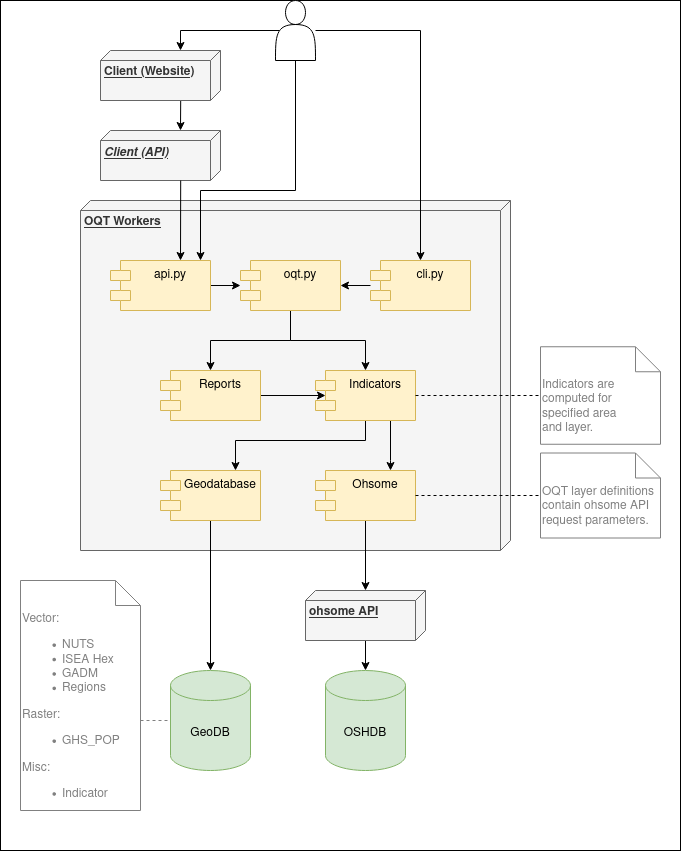
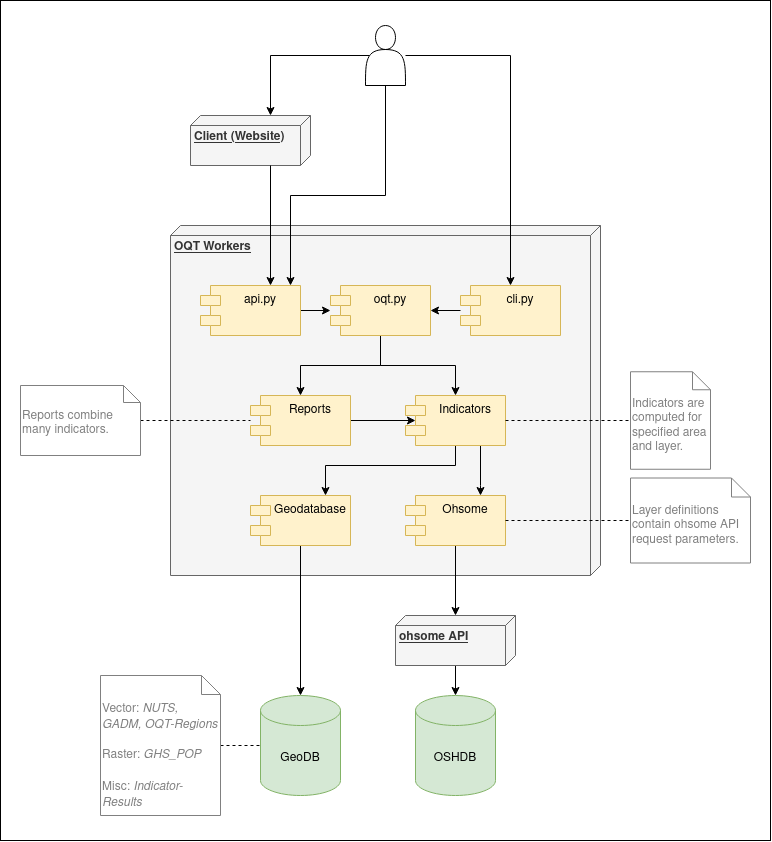
Update UML Component Diagram

diff --git a/CHANGELOG.md b/CHANGELOG.md
@@ -28,6 +28,7 @@
 - Minor improvements to the metadata and docstrings of indicators ([#110])
 - Change return type from bool to None for indicator for functions: preprocess, calculate, create_figure ([#96])
 - Implement mapping of custom feature id to default (unique) feature id ([#83])
+- Update UML Component Diagram ([#136])
 
 [#62]: https://github.com/GIScience/ohsome-quality-analyst/issues/62
 [#83]: https://github.com/GIScience/ohsome-quality-analyst/pull/83
@@ -40,6 +41,7 @@
 [#122]: https://github.com/GIScience/ohsome-quality-analyst/pull/122
 [#123]: https://github.com/GIScience/ohsome-quality-analyst/pull/123
 [#130]: https://github.com/GIScience/ohsome-quality-analyst/pull/130
+[#136]: https://github.com/GIScience/ohsome-quality-analyst/pull/136
 
 
 ## 0.4.0
